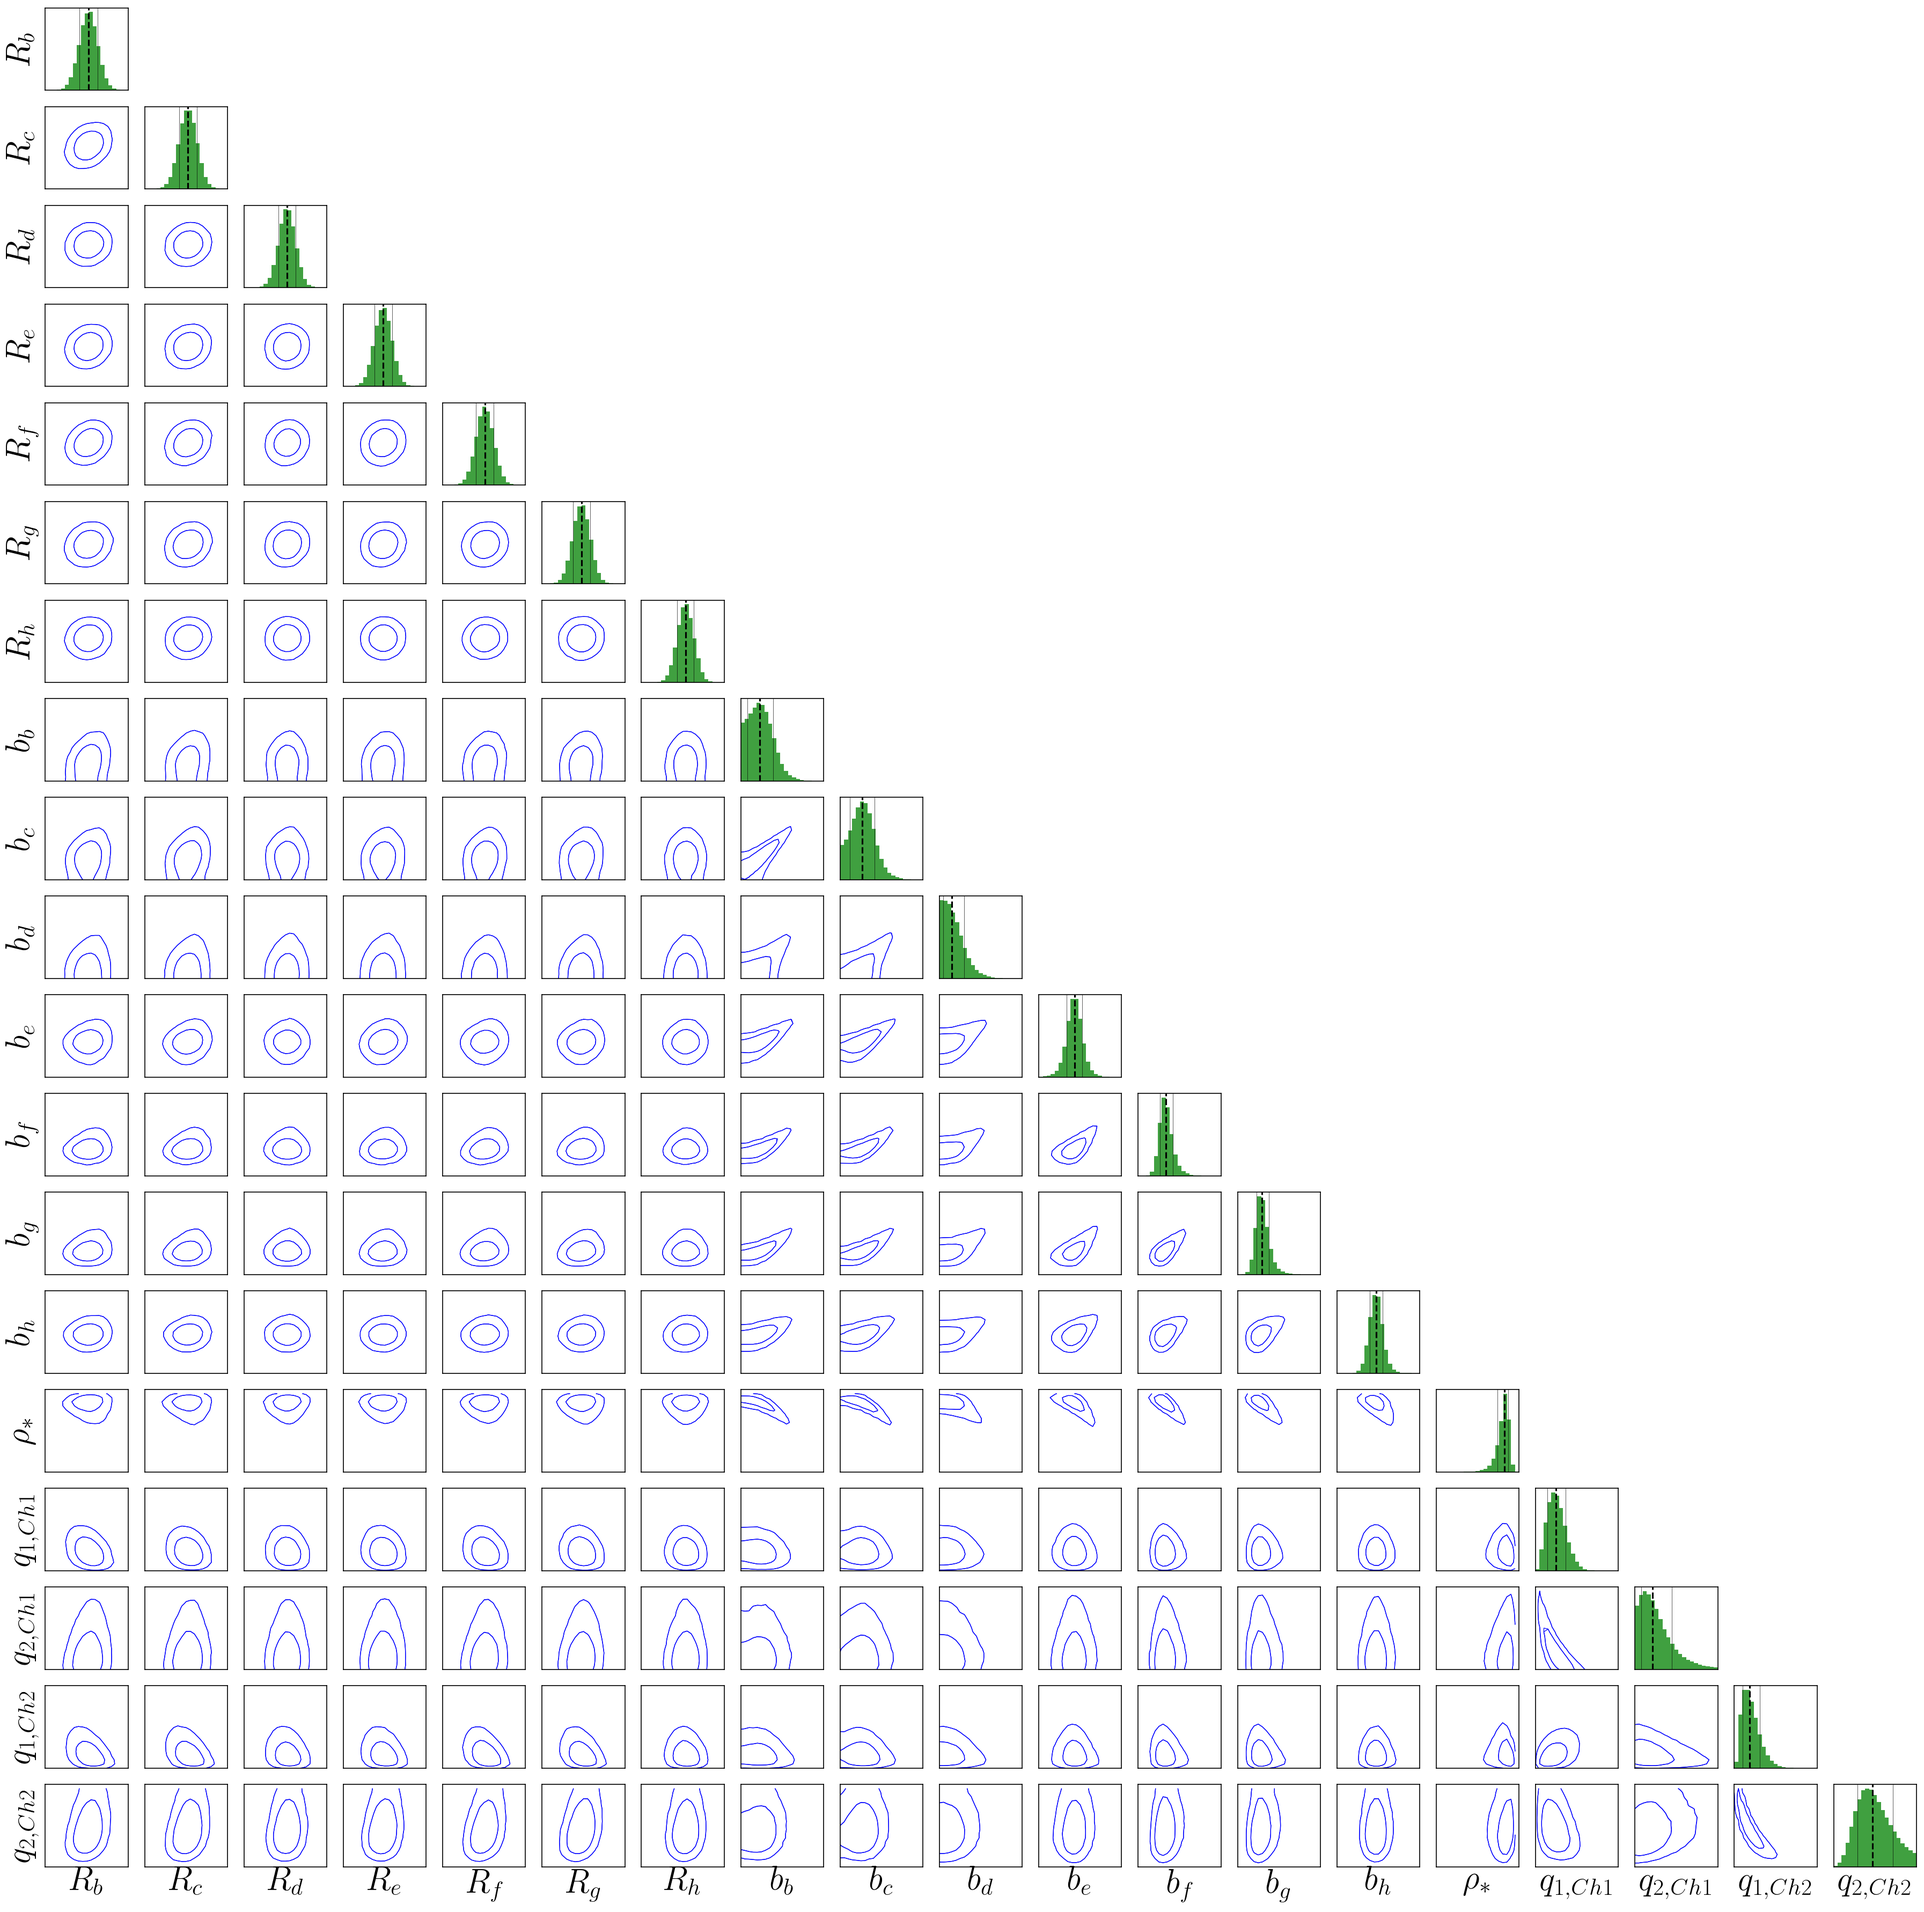
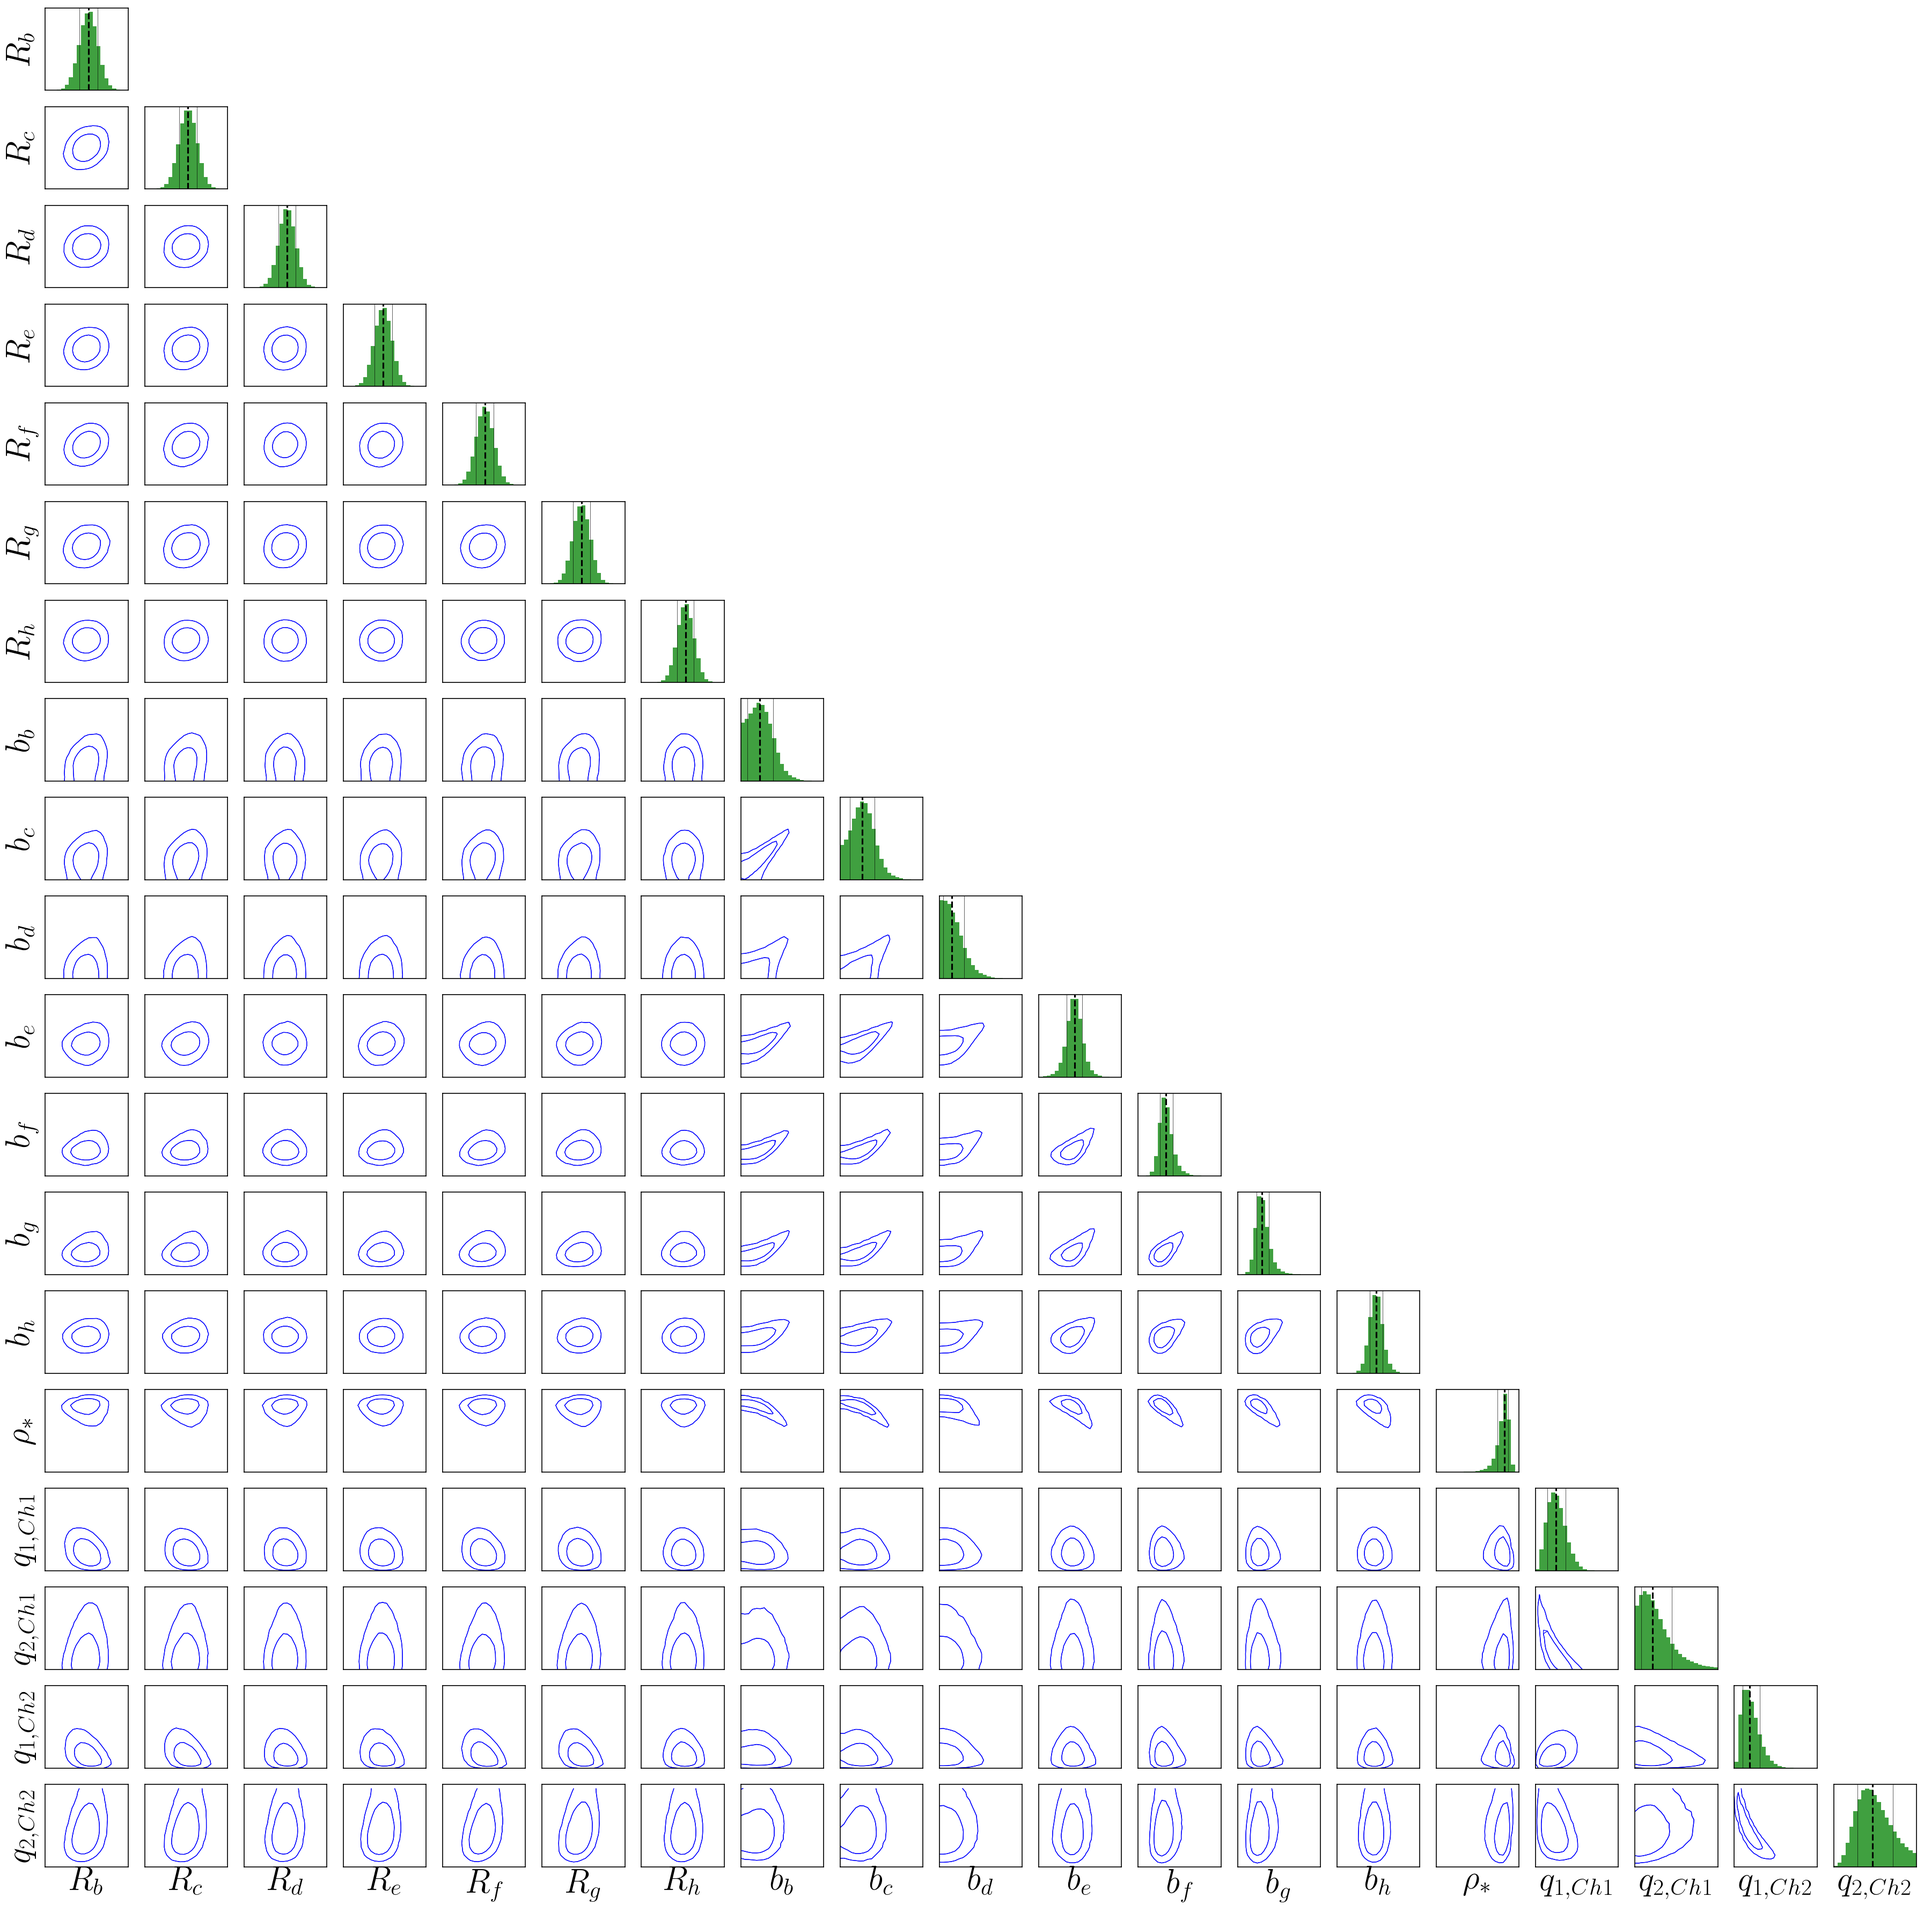
Adding fast-histogram

diff --git a/tex/figures/python/plotCorner_ttv.py b/tex/figures/python/plotCorner_ttv.py
@@ -1,6 +1,8 @@
+
 import matplotlib
 #matplotlib.use('PS')
 #matplotlib.use('agg')
+from fast_histogram import histogram2d
 
 import pylab as pl
 import numpy as np
@@ -76,11 +78,12 @@ for i in range(0, n, 1):
 		col = 'b'
 
 		if(i != j):
-						
+			
 			xedges = np.arange(j0, j1, (j1 - j0) / 21.0)
 			yedges = np.arange(i0, i1, (i1 - i0) / 21.0)
 
-			H, xedges, yedges = np.histogram2d(pj, pi, bins=(xedges, yedges))
+			#H, xedges, yedges = np.histogram2d(pj, pi, bins=(xedges, yedges))
+			H = histogram2d(pj, pi, range=[[j0,j1],[i0,i1]],bins=[21,21])
 
 			extent=[xedges[0], xedges[-1], yedges[0], yedges[-1]]
 			
@@ -125,8 +128,6 @@ for i in range(0, n, 1):
 			#HHL.append(HL[2]*1.01)
 			#cs = pl.contour(H.T, colors = 'b', linewidths = 0.6, extent=extent, levels = HHL)
 
-			
-			
 			#pl.scatter(pj, pi, s = 0.05, c = col, edgecolors='none')
 			print("x", i, xl, j0, j1)
 			print("y", j, yl, i0, i1)

diff --git a/tex/figures/python/plotCorner_photdyn.py b/tex/figures/python/plotCorner_photdyn.py
@@ -6,6 +6,8 @@ import pylab as pl
 import numpy as np
 import math
 
+from fast_histogram import histogram2d
+
 pl.rc('font', size=30)
 params = {'legend.fontsize': 30}
 pl.rcParams.update(params)
@@ -86,7 +88,8 @@ for i in range(0, n, 1):
 			xedges = np.arange(j0, j1, (j1 - j0) / 21.0)
 			yedges = np.arange(i0, i1, (i1 - i0) / 21.0)
 
-			H, xedges, yedges = np.histogram2d(pj, pi, bins=(xedges, yedges))
+			#H, xedges, yedges = np.histogram2d(pj, pi, bins=(xedges, yedges))
+			H = histogram2d(pj, pi, range=[[j0,j1],[i0,i1]],bins=[21,21])
 
 			extent=[xedges[0], xedges[-1], yedges[0], yedges[-1]]
 			
